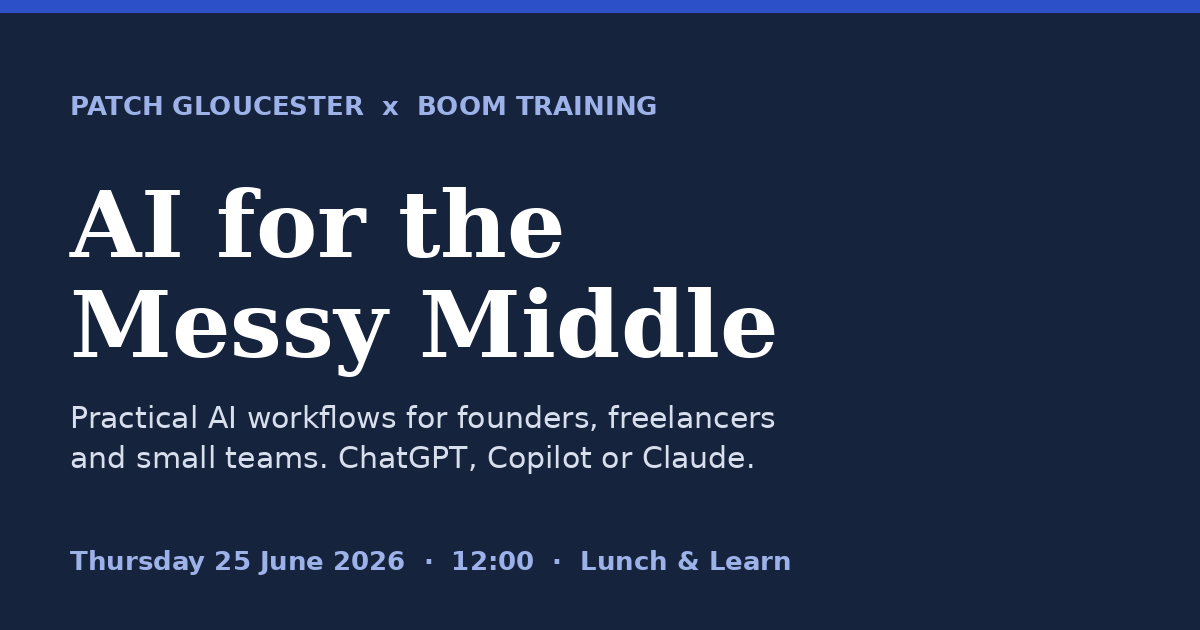
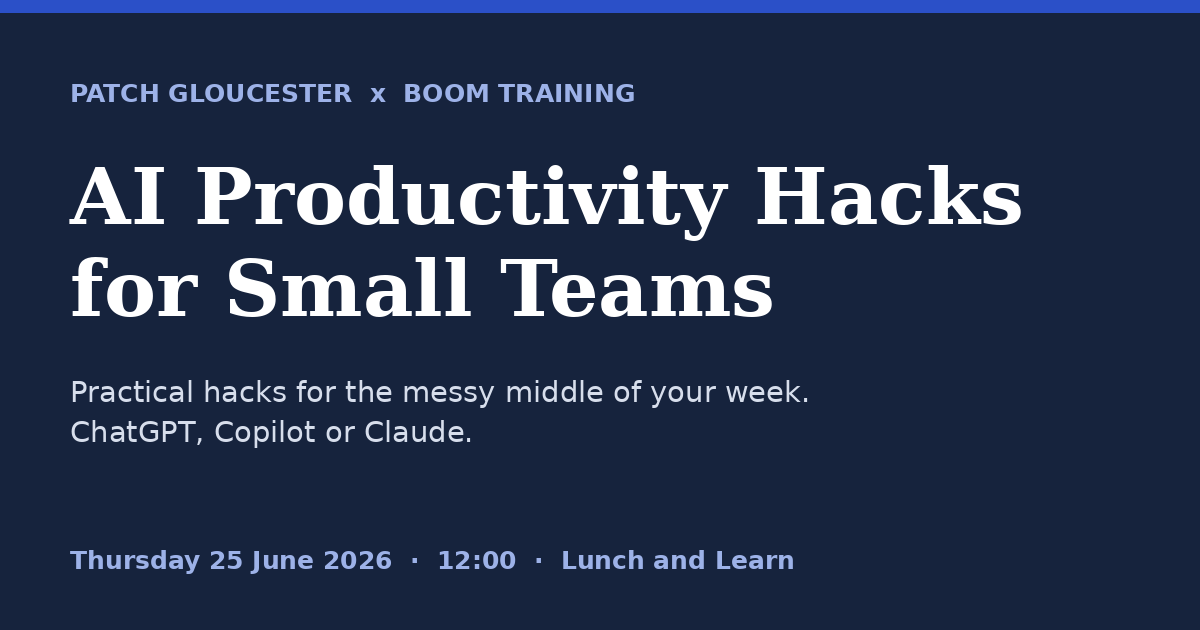
Add files via upload

Changed region(s): [[0.0617, 0.2413, 0.8633, 0.754], [0.0617, 0.1206, 0.555, 0.181], [0.0617, 0.8746, 0.6783, 0.9048]]

diff --git a/index.html b/index.html
@@ -3,16 +3,16 @@
 <head>
 <meta charset="utf-8">
 <meta name="viewport" content="width=device-width, initial-scale=1">
-<title>AI for the Messy Middle | Patch Gloucester x Boom Training</title>
-<meta name="description" content="Practical AI workflows for small teams. The prompts, the tool guide and a free download from the AI at Lunch session at Patch Gloucester, 25 June 2026.">
+<title>AI Productivity Hacks for Small Teams | Patch Gloucester x Boom Training</title>
+<meta name="description" content="Practical AI productivity hacks for small teams. The prompts, the tool guide and a free download from the Lunch and Learn at Patch Gloucester, 25 June 2026.">
 <meta property="og:type" content="website">
-<meta property="og:title" content="AI for the Messy Middle">
-<meta property="og:description" content="Practical AI workflows for founders, freelancers and small teams. Prompts, tool guide and a free download.">
+<meta property="og:title" content="AI Productivity Hacks for Small Teams">
+<meta property="og:description" content="Practical hacks for the messy middle of your week. Prompts, a tool guide and a free download for founders, freelancers and small teams.">
 <meta property="og:image" content="https://jaikharbanda.github.io/patch-ai-lunch/og.png">
 <meta property="og:url" content="https://jaikharbanda.github.io/patch-ai-lunch/">
 <meta name="twitter:card" content="summary_large_image">
-<meta name="twitter:title" content="AI for the Messy Middle">
-<meta name="twitter:description" content="Practical AI workflows for small teams. Prompts, tool guide and a free download.">
+<meta name="twitter:title" content="AI Productivity Hacks for Small Teams">
+<meta name="twitter:description" content="Practical hacks for the messy middle of your week. Prompts, a tool guide and a free download.">
 <meta name="twitter:image" content="https://jaikharbanda.github.io/patch-ai-lunch/og.png">
[1 lines of base64/hex data omitted]
 <link rel="preconnect" href="https://fonts.googleapis.com">
@@ -124,9 +124,9 @@ footer a{color:#cdd6e8}
       <span>Patch Gloucester</span><span class="div"></span>
       <span>Boom Training <span class="sub">part of Turing College</span></span>
     </div>
-    <div class="kicker" style="margin-top:22px">AI at Lunch</div>
-    <h1>AI for the Messy Middle</h1>
-    <p class="lead">Practical AI workflows for founders, freelancers and small teams. Turn rough notes, half-written drafts and vague plans into useful work, using ChatGPT, Copilot or Claude.</p>
+    <div class="kicker" style="margin-top:22px">Lunch and Learn</div>
+    <h1>AI Productivity Hacks for Small Teams</h1>
+    <p class="lead">Practical hacks for the messy middle of your week. Turn rough notes, half-written drafts and vague plans into finished work, using ChatGPT, Copilot or Claude.</p>
     <div class="meta"><span>Thursday 25 June 2026</span><span>12:00</span><span>Patch Gloucester, The Forum</span></div>
     <div class="scan">
[1 lines of base64/hex data omitted]